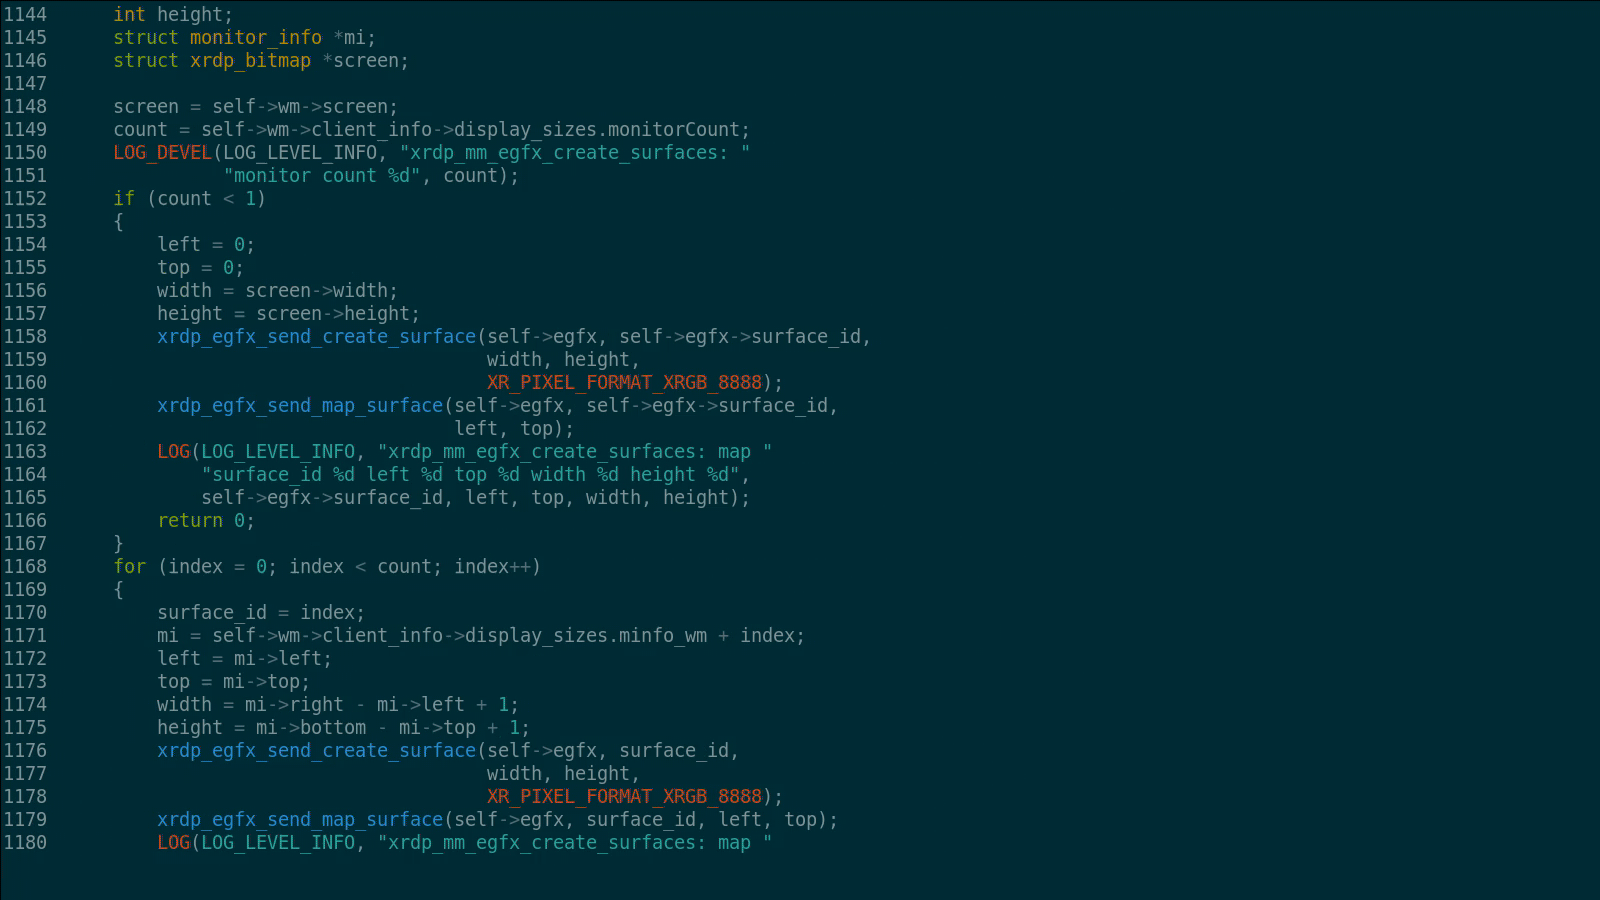
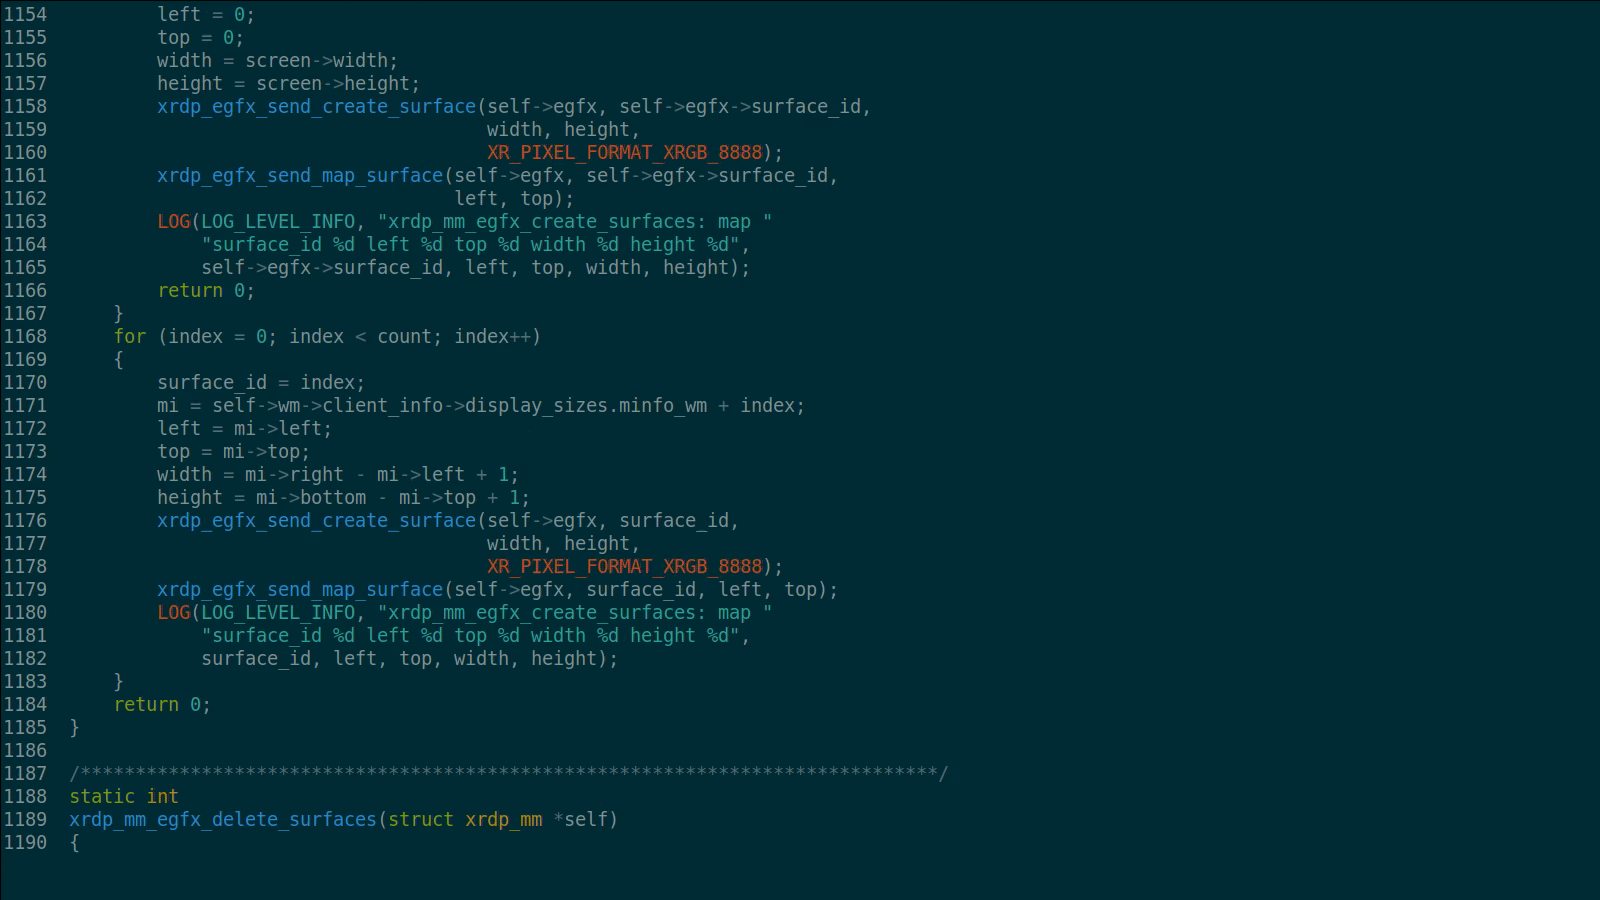
test(bench): LCD subpixel AA for code workload + absolute-numbers record
The image's fontconfig 10-sub-pixel-none.conf forced grayscale AA
(measured: raw-session off-blend-line residual 0.50), understressing
aux; Xft.rgba alone was preempted. User-fontconfig override (rgba=rgb,
lcdfilter) fixes it: residual 30.58 at source, 26.71 at the client —
fringes survive the pipeline (zoom committed). Subpixel re-bench:
arm-i 1.584 / arm-m 1.509 MB/s (-4.7%); fringes cost ~21% on both
arms. BACKLOG gains the full absolute table + noise floors per owner
directive (idle 0 B/s, <1% run drift, ~5/255 pipeline chroma noise).

Claude-Session: https://claude.ai/code/session_01HH9Fq4Ryt8hpAbeev35EZB

Changed region(s): [[0.0, 0.0, 0.5938, 0.9644], [0.5, 0.6533, 0.5312, 0.6844]]

diff --git a/BACKLOG.md b/BACKLOG.md
@@ -2296,6 +2296,58 @@ Owner tested all four arms in one sitting (Mac, Windows App):
   live arm-m AVC444 pipeline (xfreerdp3 client on Xvfb, xwd):
   captures/bench_workloads_20260728/{tick,scroll,gray,chroma,code}.png
 
+### Text rendering backend + LCD subpixel AA (owner review, same day)
+
+- Backend: xterm `-fa` = Xft -> libXft -> freetype (not bitmap core
+  fonts). The container image ships fontconfig
+  `10-sub-pixel-none.conf`, which ASSIGNS rgba=none into every match
+  pattern — so the first code-workload runs rendered GRAYSCALE AA:
+  no LCD subpixel fringes, understressing the aux/chroma channel vs
+  a real LCD-tuned desktop. Measured, not assumed: off-blend-line
+  chroma residual of glyph-edge pixels in the line-number gutter
+  (single known fg/bg pair) on the RAW session framebuffer = 0.50/255
+  (pure grayscale blend). An Xft.rgba xrdb override alone did NOT
+  work (fontconfig pattern assignment preempts Xft defaults).
+- Fix (banner.sh code workload): user-level fontconfig
+  ~/.config/fontconfig/fonts.conf (loads via 50-user.conf AFTER the
+  10-* rules; mode="assign" overwrites) forcing rgba=rgb +
+  lcdfilter=lcddefault, plus the Xft resources. Verified: raw session
+  residual 0.50 -> 30.58 (real RGB fringes at the renderer); client-
+  side residual 26.71 — the fringes SURVIVE the AVC444 pipeline
+  end-to-end (committed zoom: code_subpixel_zoom.png). Pipeline
+  chroma noise floor at CQP qp=20: ~5/255 mean residual on
+  flat-blend edges (grayscale-AA content measured 5.67 client-side
+  vs 0.50 at source).
+- Subpixel re-bench: arm-i 1.584 MB/s, arm-m 1.509 MB/s (-4.7%).
+  Subpixel fringes cost ~21% extra traffic on BOTH arms vs grayscale
+  AA (1.308->1.584 / 1.231->1.509 MB/s) — the workload now measurably
+  stresses the chroma path. code.png updated to the subpixel render.
+
+### Absolute numbers (owner directive: never percentages alone)
+
+- Steady-state wire rate, 1600x900, VAAPI CQP qp=20, 20 s windows:
+
+  | workload            | arm-i      | arm-m      | delta abs   | delta % |
+  |---------------------|------------|------------|-------------|---------|
+  | tick                | 38.2 KB/s  | 7.5 KB/s   | -30.7 KB/s  | -81%    |
+  | gray                | 11.9 KB/s  | 5.8 KB/s   | -6.1 KB/s   | -51%    |
+  | chroma (flat bands) | 56.6 KB/s  | 80.6 KB/s  | +24.0 KB/s  | +42%    |
+  | code, grayscale AA  | 1308 KB/s  | 1231 KB/s  | -77 KB/s    | -5.9%   |
+  | code, subpixel AA   | 1584 KB/s  | 1509 KB/s  | -75 KB/s    | -4.7%   |
+  | scroll              | 6320 KB/s  | 5649 KB/s  | -671 KB/s   | -11%    |
+
+- Noise floor, so significance is explicit: idle (static content) is
+  0 B/s; run-to-run drift <1% of each rate (tick repeat ±0.2 KB/s,
+  chroma repeat ±0.8 KB/s, arm-i chroma byte-identical across runs).
+  All deltas above are therefore real MEASUREMENTS — but practical
+  significance differs by an order of magnitude: tick/gray/chroma
+  run at tens of KB/s absolute (<1% of a 100 Mbit link; they
+  characterize architecture mechanics, not user-visible load), while
+  code (~12 Mbit/s) and scroll (~48 Mbit/s) are the classes that
+  size real links; there the partitioning saves 0.6 and 5.4 Mbit/s
+  respectively, and the chroma +24 KB/s regression is 0.19 Mbit/s —
+  negligible in absolute terms.
+
 ### Chroma-regression root cause: MB-level analysis (same day) — CORRECTS the first-cut interpretation above
 
 - Owner asked why chroma regresses if VAAPI aux was "already
